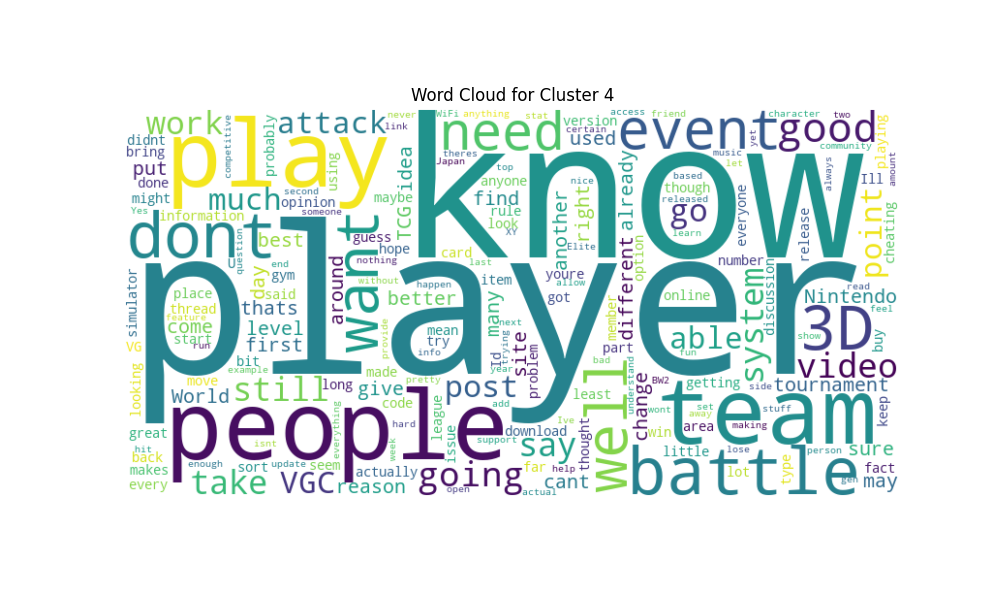
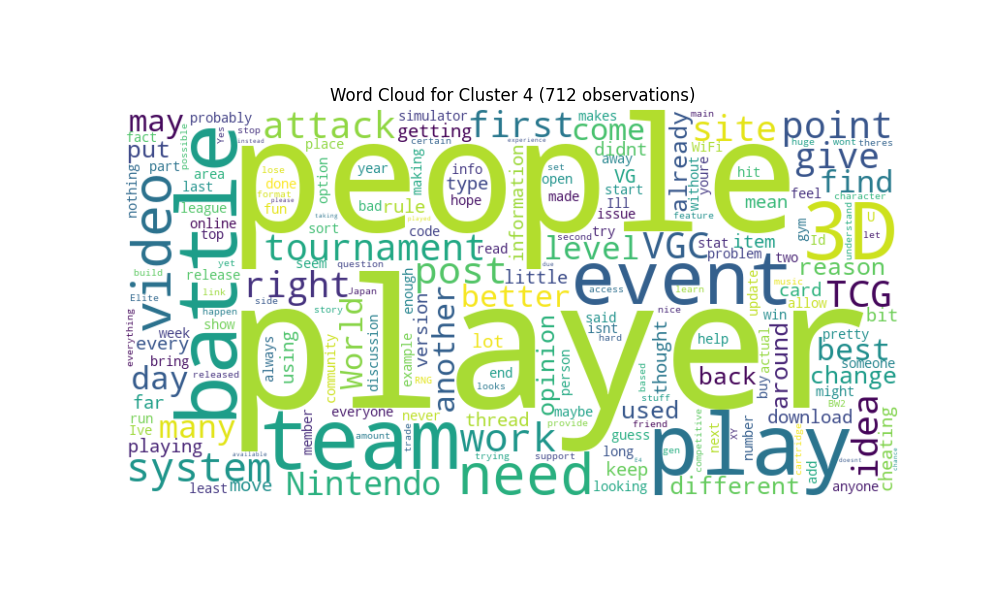
final version

diff --git a/full_visualization_UMAP.py b/full_visualization_UMAP.py
@@ -74,20 +74,6 @@ class DataVisualizer:
         plt.savefig('./graphs/kmeans_umap.png')
         plt.show()
 
-    def generate_wordcloud(self):
-
-        custom_stopwords = set(STOPWORDS)
-        custom_stopwords.update(["Pokemon", "one", "game", "Pokmon", "think", "thing"])
-
-        text = ' '.join(self.data['comment'].values)
-        wordcloud = WordCloud(width=800, height=400, background_color='white', stopwords=custom_stopwords).generate(text)
-        plt.figure(figsize=(10, 6))
-        plt.imshow(wordcloud, interpolation='bilinear')
-        plt.axis('off')
-        plt.title('Word Cloud of Comments')
-        plt.savefig('./graphs/wordcloud_comments.png')
-        plt.show()
-
     def plot_silhouette(self):
       
         silhouette_vals = silhouette_samples(self.umap_result, self.kmeans.labels_)
@@ -163,15 +149,40 @@ class DataVisualizer:
             closest_comments.append(self.data['comment'].iloc[closest_idx])
 
         return closest_comments
+    
+    def generate_wordcloud(self):
+
+        custom_stopwords = set(STOPWORDS)
+        custom_stopwords.update(["Pokemon", "one", "game", "Pokmon", "think", "thing"])
+
+        text = ' '.join(self.data['comment'].values)
+        wordcloud = WordCloud(width=800, height=400, background_color='white', stopwords=custom_stopwords).generate(text)
+        plt.figure(figsize=(10, 6))
+        plt.imshow(wordcloud, interpolation='bilinear')
+        plt.axis('off')
+        plt.title('Word Cloud of Comments')
+        plt.savefig('./graphs/wordcloud_comments.png')
+        plt.show()
 
 
     def wordcloud_for_clusters(self):
         closest_comments = self.find_closest_comments()
 
+    # Combine custom stopwords with default ones
         custom_stopwords = set(STOPWORDS)
-        custom_stopwords.update(["Pokemon", "one", "game", "Pokmon", "think", "thing", "things", "Thank", "Thanks", "games", "see", "time", "something", "way", "make", "use", "even", "Im", "S", "Pokémon", "really", "new"])
+        custom_stopwords.update([ "take", "look", "cant", "got", "thats", "able" , "want" ,"still" ,"good" ,"sure", 
+                              "still", "will", "dont", "say", "go", "well", "going", "know", "much", "actually", 
+                              "though", "great", "anything", "Pokemon", "one", "game", "Pokmon", "think", "thing", 
+                              "things", "Thank", "Thanks", "games", "see", "time", "something", "way", "make", 
+                              "use", "even", "Im", "S", "Pokémon", "really", "new"])
 
         for i, comment in enumerate(closest_comments):
+        # Count the number of observations in the current cluster
+            cluster_size = sum(self.kmeans.labels_ == i)
+        
+        # Print the number of observations in the cluster
+            print(f'Cluster {i+1}: {cluster_size} observations')
+
         # Generate a word cloud for each cluster based on comments
             text = ' '.join(self.data['comment'][self.kmeans.labels_ == i].values)
             wordcloud = WordCloud(width=800, height=400, background_color='white', stopwords=custom_stopwords).generate(text)
@@ -179,9 +190,10 @@ class DataVisualizer:
             plt.figure(figsize=(10, 6))
             plt.imshow(wordcloud, interpolation='bilinear')
             plt.axis('off')
-            plt.title(f'Word Cloud for Cluster {i+1}')
+            plt.title(f'Word Cloud for Cluster {i+1} ({cluster_size} observations)')
             plt.savefig(f'./graphs/wordcloud_cluster_{i+1}.png')
             plt.show()
+
 
 
     def run_all_visualizations(self):
